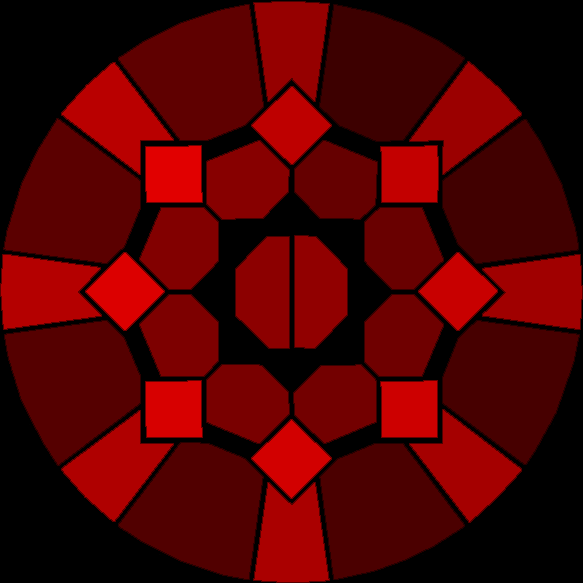
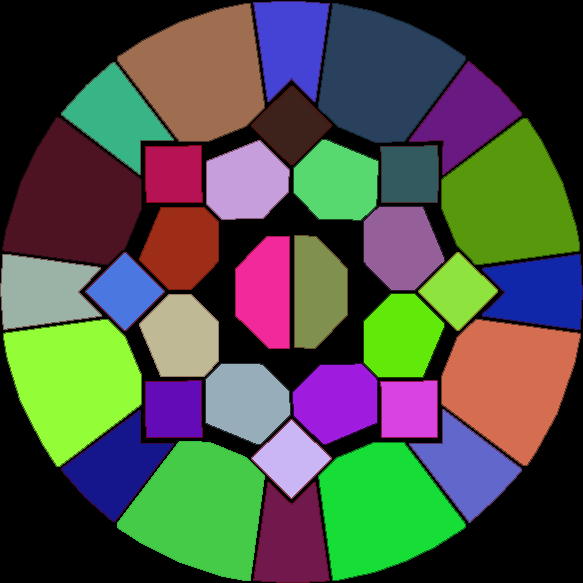
update v0.1.0 - 使用三通道颜色值定位，防止杂色干扰

diff --git a/main.py b/main.py
@@ -1,5 +1,3 @@
-import math
-
 from PIL import Image
 import subprocess
 import copy
@@ -7,6 +5,10 @@ import time
 import threading
 import queue
 import serial
+import math
+import yaml
+import os
+import sys
 
 # 编辑好的图片路径
 IMAGE_PATH = "./image/image_monitor.png"
@@ -18,10 +20,12 @@ COM_BAUDRATE = 9600
 MAX_SLOT = 12
 # 检测区域的像素值范围
 AREA_SCOPE = 50
+# 检测区域圆上点的数量
+AREA_POINT_NUM = 8
 # Android 设备实际屏幕大小 (单位:像素)
-ANDROID_ABS_MONITOR_SIZE = (1600, 2560)
+ANDROID_ABS_MONITOR_SIZE = [1600, 2560]
 # Android 设备触控屏幕大小 (单位:像素)
-ANDROID_ABS_INPUT_SIZE = (1600, 2560)
+ANDROID_ABS_INPUT_SIZE = [1600, 2560]
 # 是否开启屏幕反转(充电口朝上时开启该配置)
 ANDROID_REVERSE_MONITOR = False
 # touch_thread 是否启用sleep, 默认开启, 如果程序 CPU 占用较高则开启, 如果滑动时延迟极大请关闭
@@ -38,13 +42,13 @@ exp_list = [
     ["D8", "E1", "E2", "E3", "E4", ],
     ["E5", "E6", "E7", "E8", ],
 ]
-exp_image_dict = {
-    "61": "A1", "65": "A2", "71": "A3", "75": "A4", "81": "A5", "85": "A6", "91": "A7", "95": "A8",
-    "101": "B1", "105": "B2", "111": "B3", "115": "B4", "121": "B5", "125": "B6", "130": "B7", "135": "B8",
-    "140": "C1", "145": "C2",
-    "150": "D1", "155": "D2", "160": "D3", "165": "D4", "170": "D5", "175": "D6", "180": "D7", "185": "D8",
-    "190": "E1", "195": "E2", "200": "E3", "205": "E4", "210": "E5", "215": "E6", "220": "E7", "225": "E8",
-}
+exp_image_dict = {'41-65-93': 'A1', '87-152-13': 'A2', '213-109-81': 'A3', '23-222-55': 'A4', '69-203-71': 'A5',
+                  '147-253-55': 'A6', '77-19-35': 'A7', '159-109-79': 'A8', '87-217-111': 'B1', '149-95-154': 'B2',
+                  '97-233-9': 'B3', '159-27-222': 'B4', '152-173-186': 'B5', '192-185-149': 'B6', '158-45-23': 'B7',
+                  '197-158-219': 'B8', '242-41-155': 'C1', '127-144-79': 'C2', '69-67-213': 'D1', '105-25-130': 'D2',
+                  '17-39-170': 'D3', '97-103-203': 'D4', '113-25-77': 'D5', '21-21-140': 'D6', '155-179-166': 'D7',
+                  '55-181-134': 'D8', '61-33-27': 'E1', '51-91-95': 'E2', '143-227-63': 'E3', '216-67-226': 'E4',
+                  '202-181-245': 'E5', '99-11-183': 'E6', '75-119-224': 'E7', '182-19-85': 'E8'}
 
 
 class SerialManager:
@@ -183,20 +187,26 @@ def microsecond_sleep(sleep_time):
 # 选择圆形区域的9个点作为判定
 def get_colors_in_area(x, y):
     colors = set()  # 使用集合来存储颜色值，以避免重复
-    num_points = 24  # 要获取的点的数量
+    num_points = AREA_POINT_NUM  # 要获取的点的数量
     angle_increment = 360.0 / num_points  # 角度增量
     cos_values = [math.cos(math.radians(i * angle_increment)) for i in range(num_points)]
     sin_values = [math.sin(math.radians(i * angle_increment)) for i in range(num_points)]
+    # 处理中心点
+    if 0 <= x < exp_image_width and 0 <= y < exp_image_height:
+        colors.add(get_color_name(exp_image.getpixel((x, y))))
+    # 处理圆上的点
     for i in range(num_points):
         dx = int(AREA_SCOPE * cos_values[i])
         dy = int(AREA_SCOPE * sin_values[i])
         px = x + dx
         py = y + dy
         if 0 <= px < exp_image_width and 0 <= py < exp_image_height:
-            pixel = exp_image.getpixel((px, py))
-            color = str(pixel[0])
-            colors.add(color)
+            colors.add(get_color_name(exp_image.getpixel((px, py))))
     return list(colors)
+
+
+def get_color_name(pixel):
+    return str(pixel[0]) + "-" + str(pixel[1]) + "-" + str(pixel[2])
 
 
 def convert(touch_data):
@@ -261,6 +271,7 @@ def getevent():
         try:
             event = line.decode('utf-8').strip()
             _, _, event_type, event_value = event.split()
+            # print(event_type, int(event_value, 16))
             if event_type == 'ABS_MT_POSITION_X':
                 key_is_changed = True
                 if not ANDROID_REVERSE_MONITOR:
@@ -309,6 +320,28 @@ exp_image_width, exp_image_height = exp_image.size
 abs_multi = 1
 
 if __name__ == "__main__":
+    yaml_file_path = 'config.yaml'
+    if len(sys.argv) > 1:
+        yaml_file_path = sys.argv[1]
+    if os.path.isfile(yaml_file_path):
+        print("使用配置文件:", yaml_file_path)
+        with open(yaml_file_path, 'r', encoding='utf-8') as file:
+            c = yaml.safe_load(file)
+        IMAGE_PATH = c["IMAGE_PATH"]
+        COM_PORT = c["COM_PORT"]
+        COM_BAUDRATE = c["COM_BAUDRATE"]
+        MAX_SLOT = c["MAX_SLOT"]
+        AREA_SCOPE = c["AREA_SCOPE"]
+        AREA_POINT_NUM = c["AREA_POINT_NUM"]
+        ANDROID_ABS_MONITOR_SIZE = c["ANDROID_ABS_MONITOR_SIZE"]
+        ANDROID_ABS_INPUT_SIZE = c["ANDROID_ABS_INPUT_SIZE"]
+        ANDROID_REVERSE_MONITOR = c["ANDROID_REVERSE_MONITOR"]
+        TOUCH_THREAD_SLEEP_MODE = c["TOUCH_THREAD_SLEEP_MODE"]
+        TOUCH_THREAD_SLEEP_DELAY = c["TOUCH_THREAD_SLEEP_DELAY"]
+        exp_image_dict = c["exp_image_dict"]
+    else:
+        print("未找到配置文件, 使用默认配置")
+
     abs_multi = calc_abs_x_y()
     print("当前触控区域大小倍数:", abs_multi)
     print(('已' if ANDROID_REVERSE_MONITOR else '未') + "开启屏幕反转")
